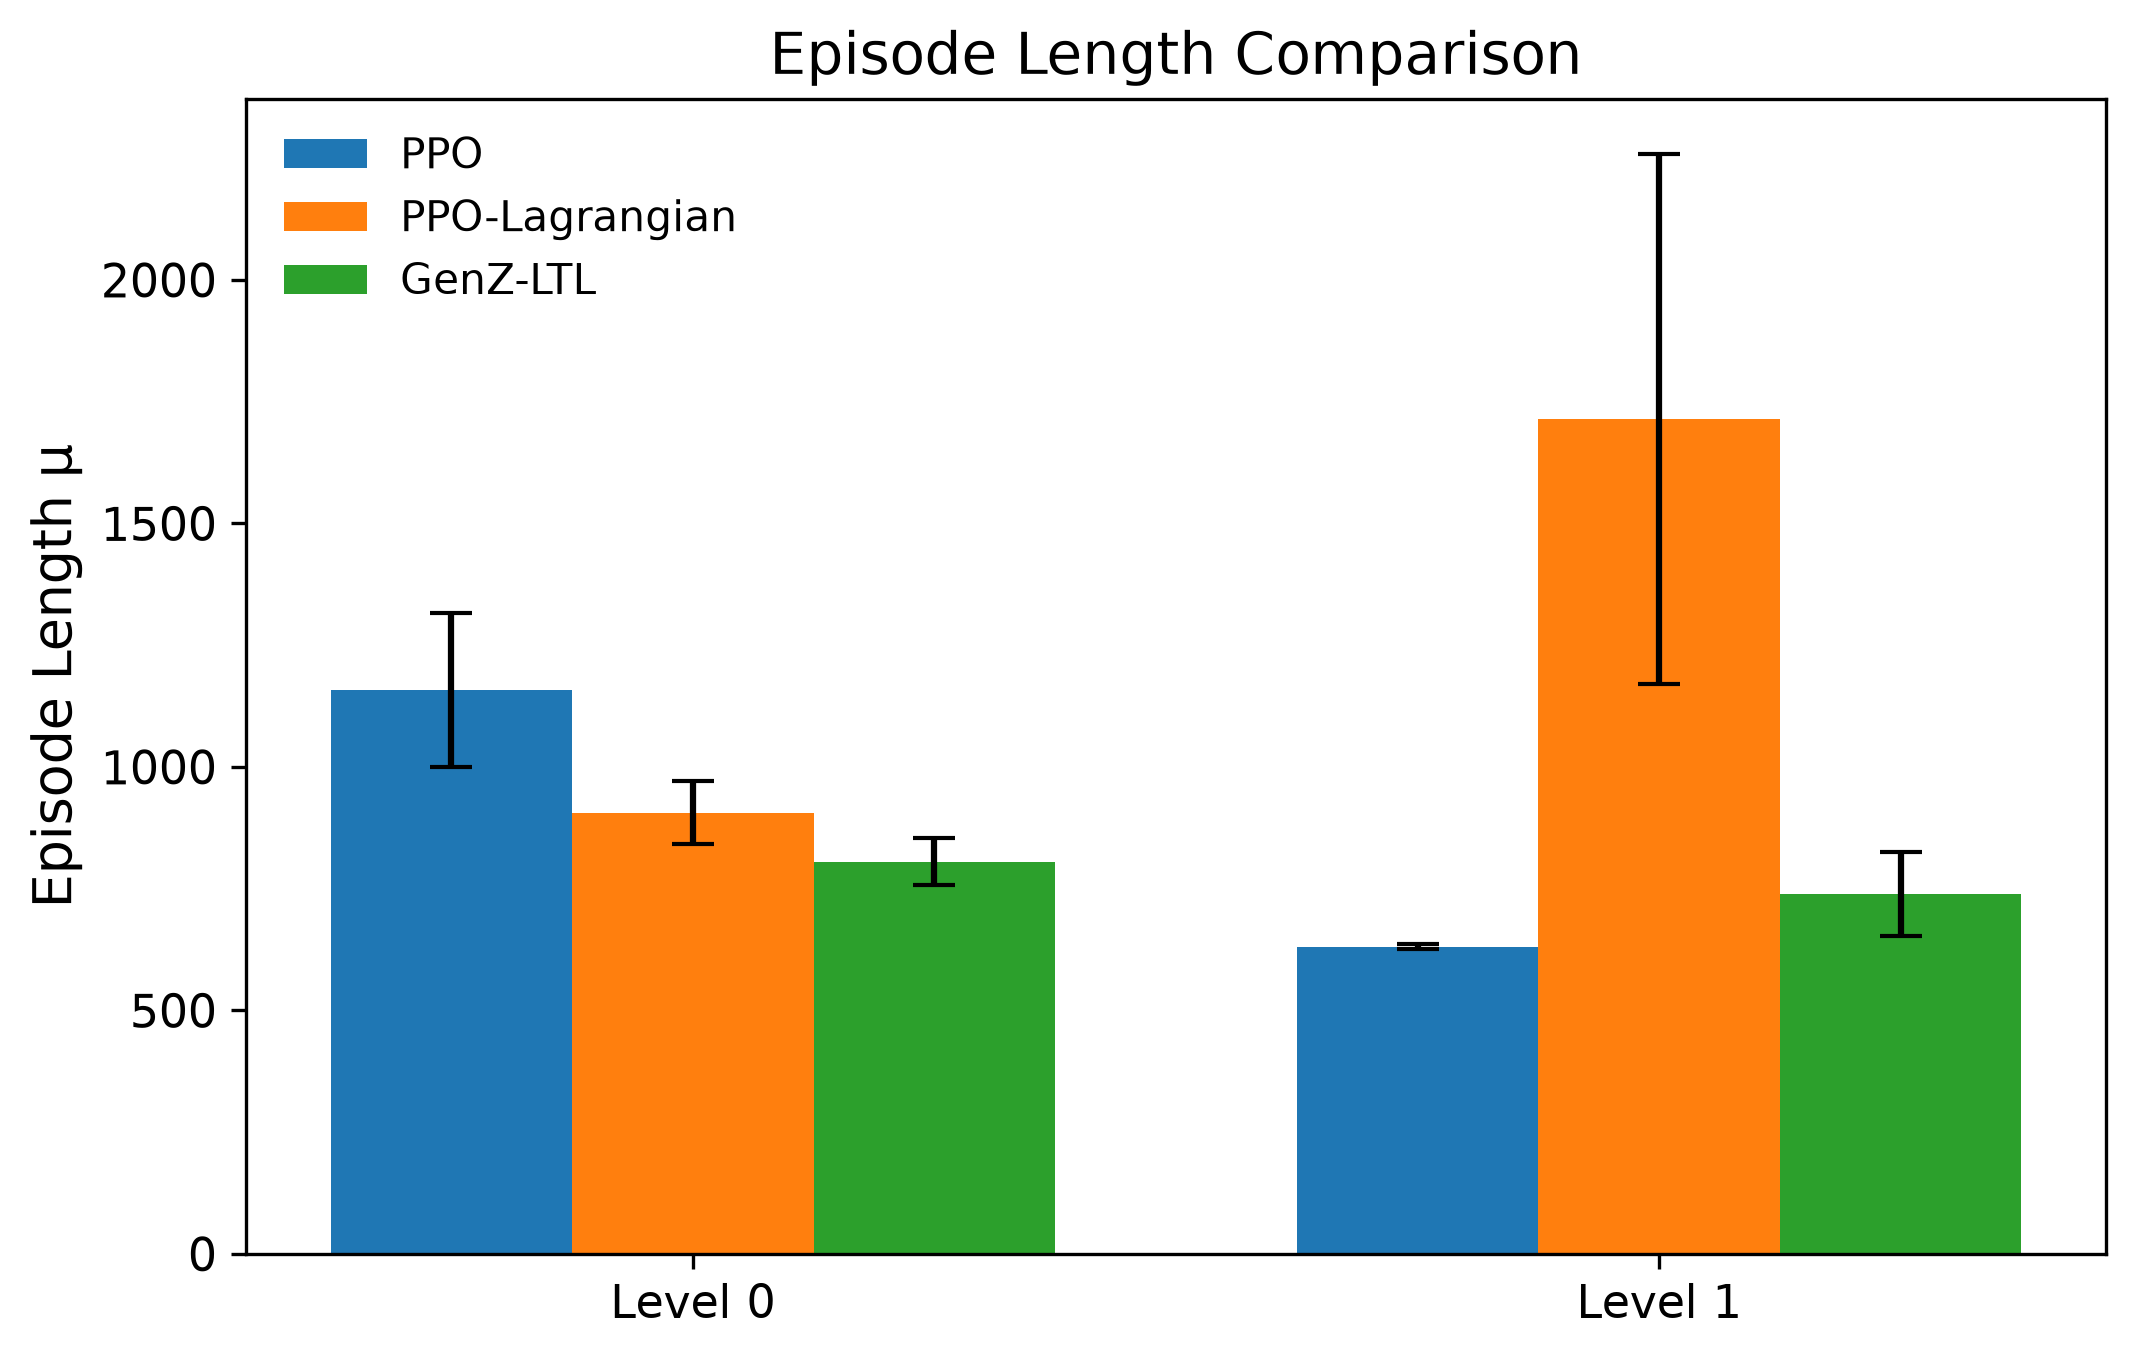
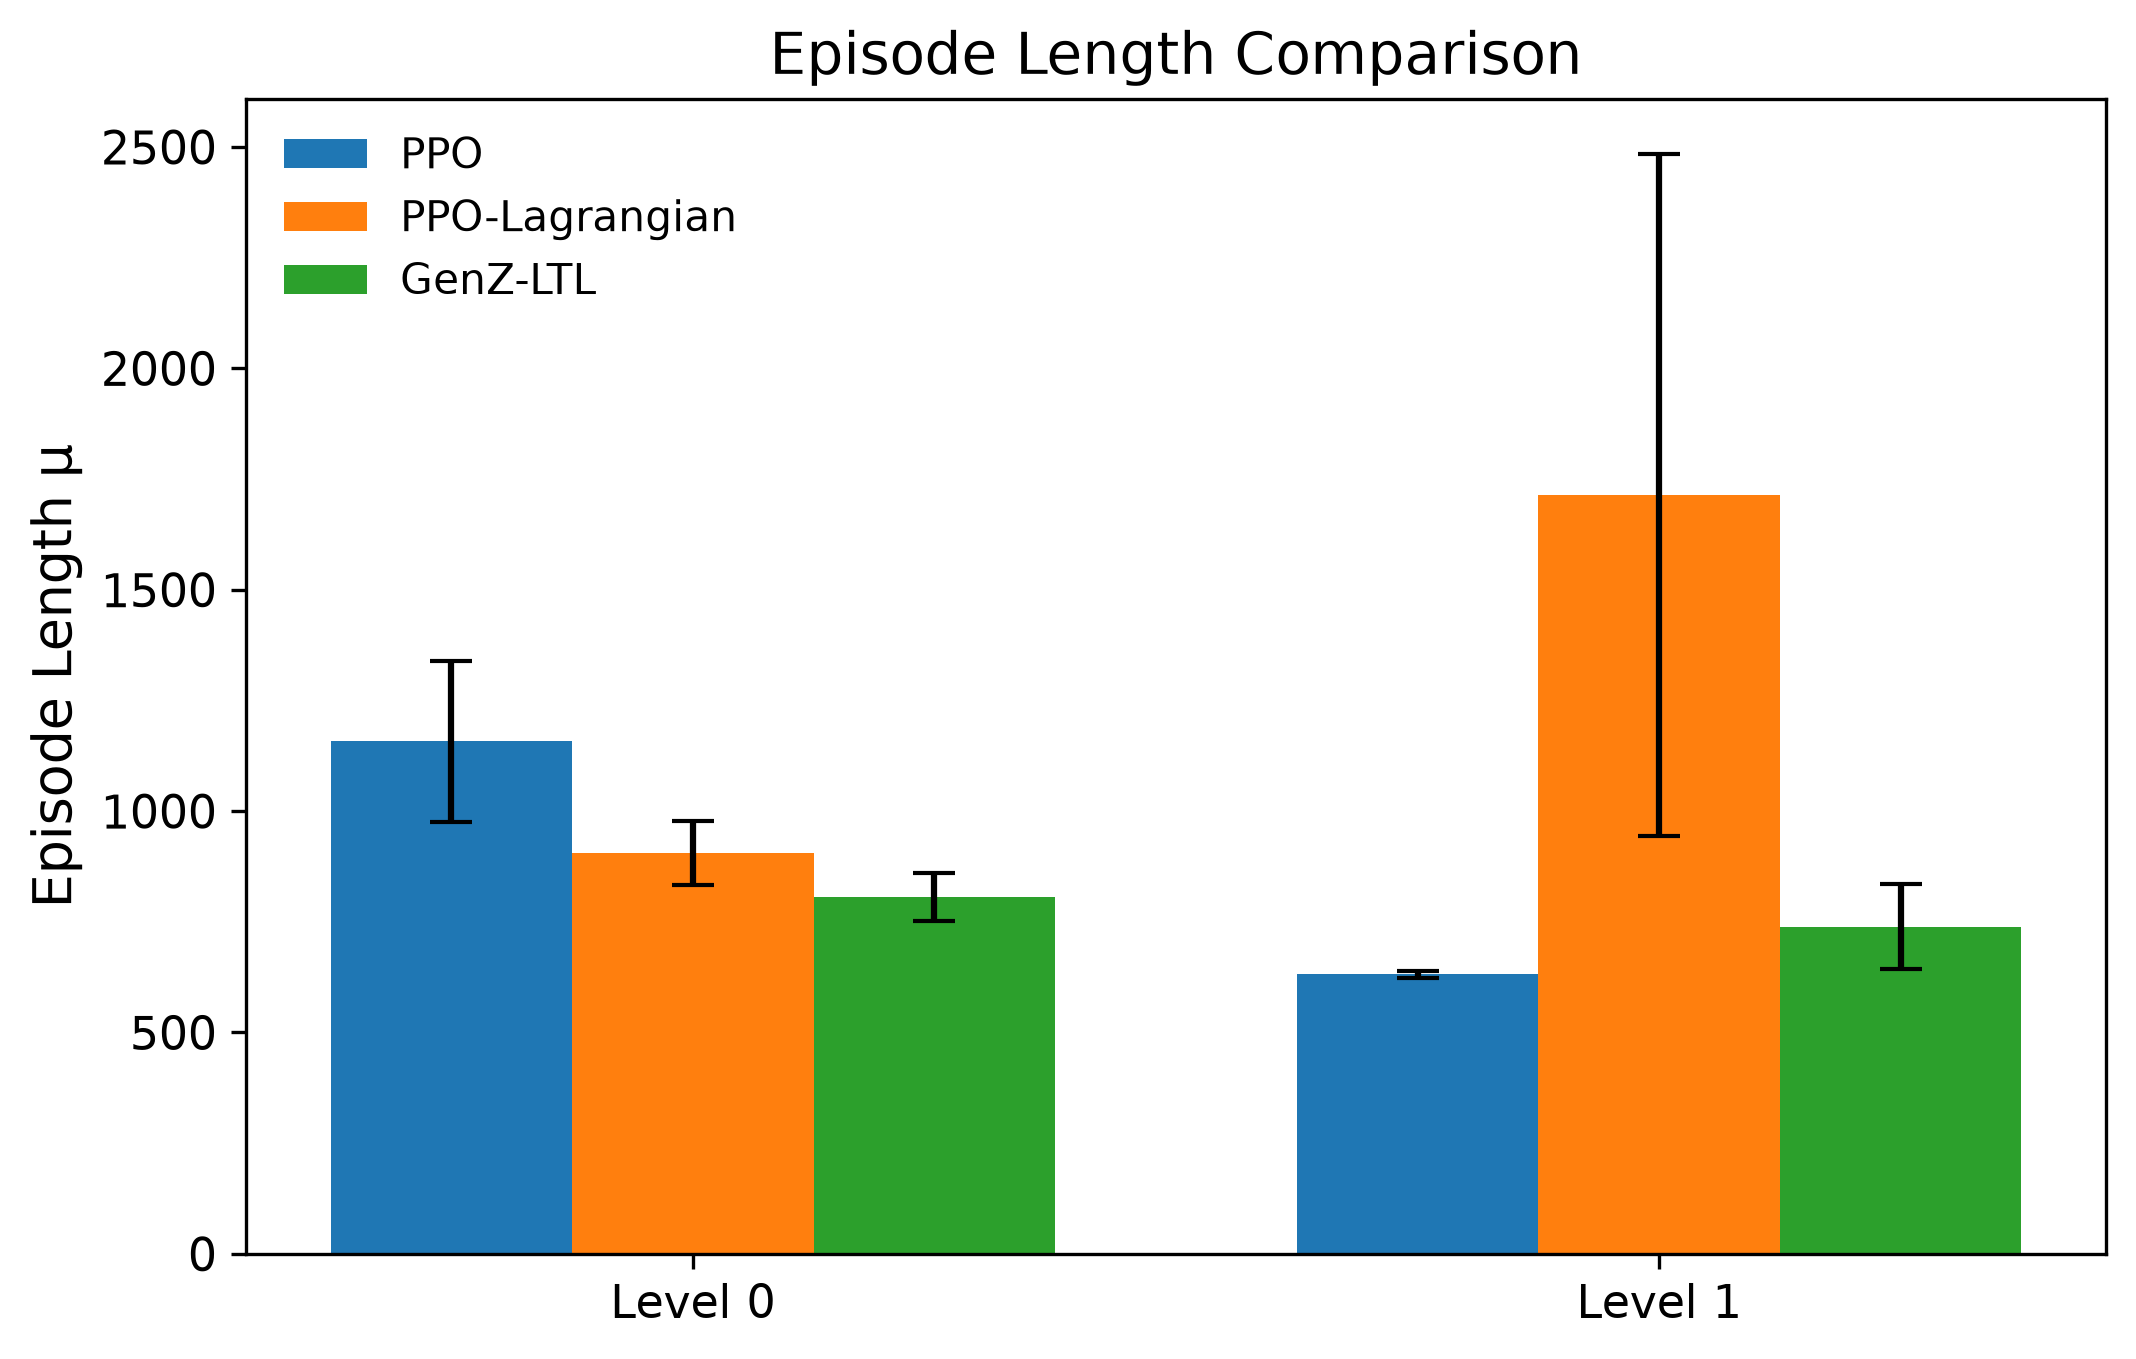
Consistent graphics between table and graphs

diff --git a/RISE-Training/visuals/ltl_graphs.py b/RISE-Training/visuals/ltl_graphs.py
@@ -2,6 +2,7 @@ import numpy as np
 import matplotlib.pyplot as plt
 import os
 
+
 # ============================================================
 # Data
 # ============================================================
@@ -10,41 +11,47 @@ levels = ["Level 0", "Level 1"]
 algorithms = ["PPO", "PPO-Lagrangian", "GenZ-LTL"]
 
 data = {
+
     "success": {
         "Level 0": [
-            [0.05, 0.00, 0.02, 0.03, 0.25],
-            [0.14, 0.28, 0.14, 0.33, 0.47],
-            [0.73, 0.85, 0.78, 0.75, 0.78]
+            [0.050, 0.000, 0.020, 0.030, 0.250],
+            [0.140, 0.280, 0.140, 0.330, 0.470],
+            [0.730, 0.850, 0.780, 0.750, 0.780]
         ],
+
         "Level 1": [
-            [0.01, 0.01, 0.00, 0.00, 0.00],
-            [0.00, 0.01, 0.03, 0.00, 0.00],
-            [0.09, 0.20, 0.05, 0.14, 0.02]
+            [0.010, 0.010, 0.000, 0.000, 0.000],
+            [0.000, 0.010, 0.030, 0.000, 0.000],
+            [0.090, 0.200, 0.050, 0.140, 0.020]
         ]
     },
+
 
     "violation": {
         "Level 0": [
-            [0.16, 0.64, 0.71, 0.10, 0.09],
-            [0.19, 0.13, 0.07, 0.21, 0.22],
-            [0.16, 0.05, 0.04, 0.16, 0.02]
+            [0.160, 0.640, 0.710, 0.100, 0.090],
+            [0.190, 0.130, 0.070, 0.210, 0.220],
+            [0.160, 0.050, 0.040, 0.160, 0.020]
         ],
+
         "Level 1": [
-            [0.69, 0.74, 0.17, 0.19, 0.14],
-            [0.57, 0.60, 0.57, 0.87, 0.51],
-            [0.13, 0.04, 0.30, 0.11, 0.06]
+            [0.690, 0.740, 0.170, 0.190, 0.140],
+            [0.570, 0.600, 0.570, 0.870, 0.510],
+            [0.130, 0.040, 0.300, 0.110, 0.060]
         ]
     },
 
+
     "episode_length": {
         "Level 0": [
-            [1028.8, 1426.0, 1107.3, 1069.2],
+            [1028.8, np.nan, 1426.0, 1107.3, 1069.2],
             [1005.4, 941.5, 810.4, 879.1, 892.5],
             [776.0, 766.718, 890.731, 765.8, 826.974]
         ],
+
         "Level 1": [
-            [637.0, 625.0],
-            [2259.0, 1169.7],
+            [637.0, 625.0, np.nan, np.nan, np.nan],
+            [np.nan, 2259.0, 1169.7, np.nan, np.nan],
             [600.778, 826.75, 708.6, 834.571, 725.0]
         ]
     }
@@ -60,7 +67,10 @@ def make_plot(metric, ylabel, title, filename):
     x = np.arange(len(levels))
     width = 0.25
 
-    fig, ax = plt.subplots(figsize=(8, 5), dpi=300)
+    fig, ax = plt.subplots(
+        figsize=(8, 5),
+        dpi=300
+    )
 
     for i, algo in enumerate(algorithms):
 
@@ -69,14 +79,20 @@ def make_plot(metric, ylabel, title, filename):
 
         for level in levels:
 
-            values = data[metric][level][i]
+            values = np.array(
+                data[metric][level][i],
+                dtype=float
+            )
 
-            if len(values) > 0:
-                means.append(np.mean(values))
-                stds.append(np.std(values))
-            else:
-                means.append(np.nan)
-                stds.append(0)
+            # Match R's mean(x, na.rm=TRUE) and sd(x, na.rm=TRUE)
+            means.append(
+                np.nanmean(values)
+            )
+
+            stds.append(
+                np.nanstd(values, ddof=1)
+            )
+
 
         ax.bar(
             x + (i-1)*width,
@@ -89,29 +105,52 @@ def make_plot(metric, ylabel, title, filename):
 
 
     ax.set_xticks(x)
-    ax.set_xticklabels(levels, fontsize=12)
+    ax.set_xticklabels(
+        levels,
+        fontsize=12
+    )
 
-    ax.set_ylabel(ylabel, fontsize=13)
-    ax.set_title(title, fontsize=14)
+    ax.set_ylabel(
+        ylabel,
+        fontsize=13
+    )
+
+    ax.set_title(
+        title,
+        fontsize=14
+    )
 
     ax.legend(
         fontsize=10,
         frameon=False
     )
 
-    ax.tick_params(axis="both", labelsize=11)
+    ax.tick_params(
+        axis="both",
+        labelsize=11
+    )
 
-    save_dir = os.path.expanduser("~/RISE-2026/RISE-Training/visuals")
 
-    os.makedirs(save_dir, exist_ok=True)
+    save_dir = os.path.expanduser(
+        "~/RISE-2026/RISE-Training/visuals"
+    )
 
-    path = os.path.join(save_dir, filename)
+    os.makedirs(
+        save_dir,
+        exist_ok=True
+    )
+
+    path = os.path.join(
+        save_dir,
+        filename
+    )
 
     plt.savefig(
         path,
         dpi=300,
         bbox_inches="tight"
     )
+
     plt.close()
 
 
@@ -127,12 +166,14 @@ make_plot(
     "ltl_success_rate.png"
 )
 
+
 make_plot(
     "violation",
     "Violation Rate ηᵥ",
     "Violation Rate Comparison",
     "ltl_violation_rate.png"
 )
+
 
 make_plot(
     "episode_length",
